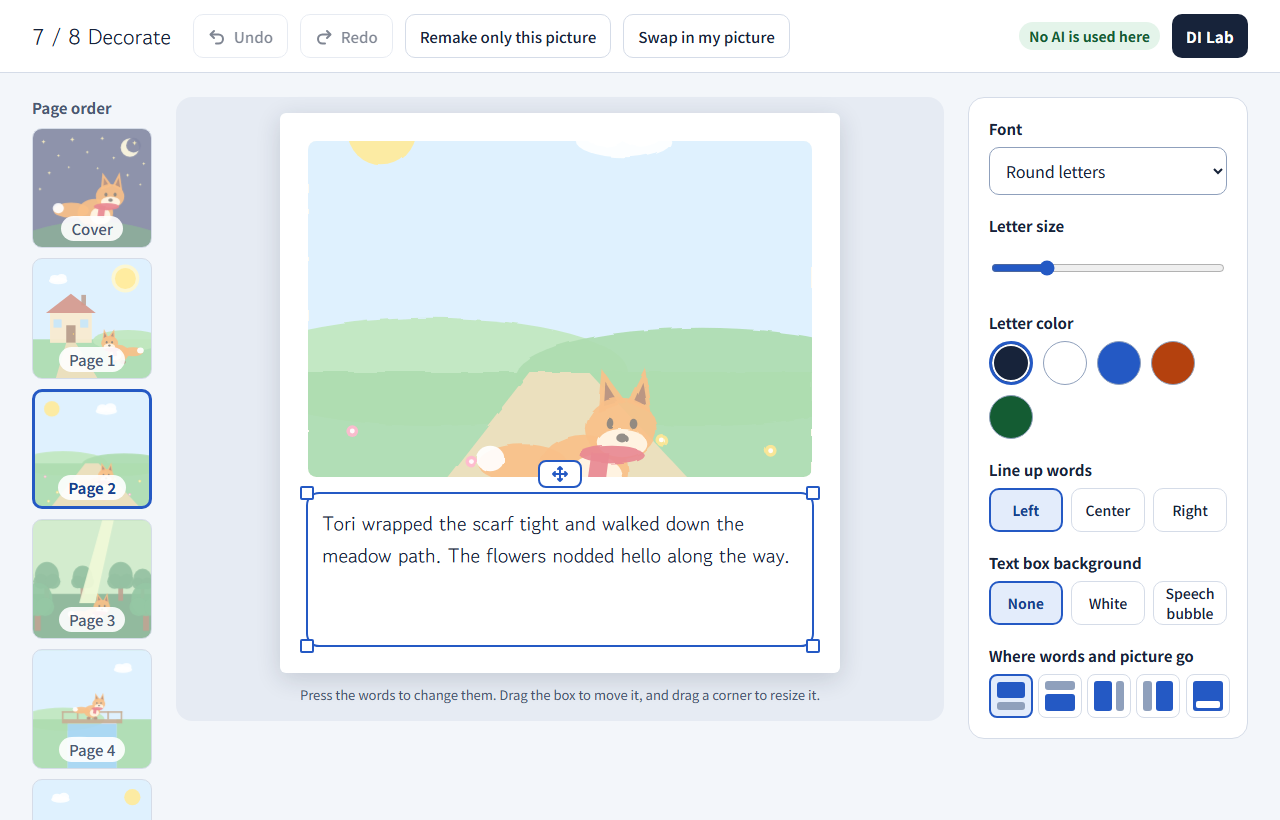
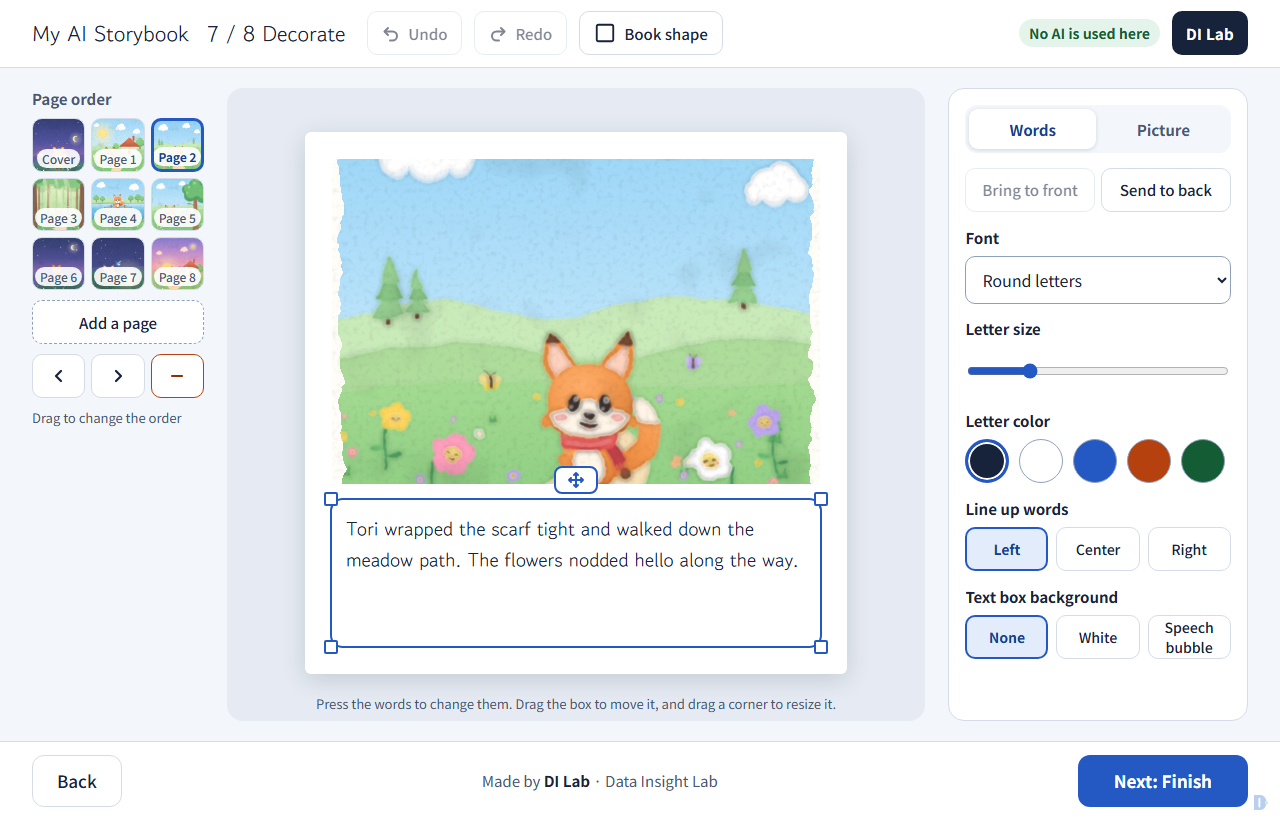
문서: 새 기능을 README와 교사용 안내에 넣고 화면 사진·소셜 카드·시연 GIF를 다시 만듦

diff --git a/docs/teacher-guide.en.md b/docs/teacher-guide.en.md
@@ -140,6 +140,8 @@ The calculation below is for Google Gemini. Claude writes text only; the text fo
 
 - Tell students not to write real names, addresses, or phone numbers. The story seed screen also says "Don't write real names, addresses, or phone numbers." The main character's name should be made up.
 - The author's name can be a nickname.
+- Tell students not to write real names or personal information in the [My own style] box either. What they write there goes into the picture request as it is when AI is connected.
+- [Ask AI for help] works only when AI is connected. Without a connection the button cannot be pressed and "Connect AI to use this" is shown. Pressing it sends what is in that box and the book content (topic, main character, plot, the pages before and after) to the connected AI provider.
 - **When Gemini is used within the free limit, what is typed in is used by the provider to improve its services, and people may review it.** The terms say: "Google uses the content you submit to the Services and any generated responses to provide, improve, and develop Google products and services and machine learning technologies..." / "human reviewers may read, annotate, and process your API input and output." / "Do not submit sensitive, confidential, or personal information to the Unpaid Services."
 - When Gemini is used on the paid plan, content is not used to improve products. Logs are still kept for a while to detect abuse.
 - Anthropic's Commercial Terms of Service state: "Anthropic may not train models on Customer Content from Services." (checked 2026-11-16). Under OpenAI's Services Agreement, OpenAI does not use customer content to develop or improve its services unless the customer explicitly agrees (checked 2026-11-16). Read the provider's terms before use.
@@ -173,7 +175,7 @@ For the rights to the book and the fonts, see [Rights and terms of use](rights.e
 | "You've used all of today's turns." | This is the daily limit. Try again after the time on screen, or write the words yourself and add your own pictures. |
 | Writing works but pictures do not. | Claude does not make pictures. Add your own, or enter a Gemini or OpenAI key for pictures in [More settings]. Gemini pictures need a key with billing connected. The key check only sees that the key is accepted. |
 | "The key looks right, but the Claude organization that made it has browser use turned off in its settings." | The Claude organization's setting blocks calls straight from the browser. Ask the person who manages the organization to turn it on, or put in a different key. |
-| The character looks different on each page. | Describe the character in more detail, and press [Remake only this picture] in Decorate for pictures you do not like. |
+| The character looks different on each page. | Describe the character in more detail, and press [Remake only this picture] on the [Picture] tab in Decorate for pictures you do not like. |
 | Text boxes are hard to use on a phone. | Use a bigger screen, or click the words and fix them directly. |
 
 For getting a key, see [How to get a key](key-guide.en.md).

diff --git a/README.kr.md b/README.kr.md
@@ -19,9 +19,10 @@ https://storybook.di-lab.io/
 ## 주요 기능
 
 - **이야기 설정:** 읽을 사람, 주제, 주인공의 이름과 모습을 고르면 AI가 줄거리 세 가지를 제안합니다. 직접 쓸 수도 있습니다.
-- **쪽 나누기:** 줄거리를 4, 6, 8쪽으로 나누고, 쪽마다 글과 그림 설명을 바로 고칠 수 있습니다.
-- **그림 넣기:** 그림체 여섯 가지 중 하나로 AI가 그리거나, 직접 그린 그림이나 사진을 올립니다.
-- **꾸미기:** 글상자를 끌어 옮기고 크기, 글꼴, 색, 배치를 바꿉니다. 되돌리기를 지원합니다.
+- **쪽 나누기:** 줄거리를 2~20쪽으로 나눕니다(4, 6, 8쪽은 바로 고르고, 그 밖의 쪽 수는 [직접 정하기]로 정합니다). 쪽 목록에서 쪽을 골라 글과 그림 설명을 바로 고칠 수 있습니다.
+- **AI 글쓰기 도움:** 주인공 이름과 모습, 이야기 한 줄, 제목과 줄거리, 쪽마다의 글과 그림 설명 칸에서 [AI에게 도움받기]를 누르면 빈 칸에는 초안을, 이미 쓴 칸에는 쓴 내용을 살려 다듬은 글을 받습니다. [되돌리기]로 원래 글로 돌아갈 수 있으며, AI 연결이 필요합니다.
+- **그림 넣기:** 그림체 여섯 가지 중 하나로 AI가 그리거나, 직접 그린 그림이나 사진을 올립니다. 원하는 그림체를 글로 적는 [나만의 스타일]이 있고, 쪽마다 그림체를 따로 고를 수도 있습니다.
+- **꾸미기:** 글상자와 그림을 끌어 옮기고 크기를 바꾸며, 둘을 겹쳐 [앞으로 가져오기]와 [뒤로 보내기]로 앞뒤를 정합니다. 글꼴, 색, 배치를 바꾸고 책 모양(정사각형, 세로로 긴 책, 가로로 긴 책)을 고릅니다. 되돌리기를 지원합니다.
 - **내보내기:** 화면용 PDF, 인쇄용 PDF, 그림 묶음, 나중에 이어서 편집할 작업 파일로 받습니다.
 - **AI 없이 완성:** AI를 연결하지 않아도 글을 직접 쓰고 그림을 올려 책을 끝까지 만들 수 있습니다.
 
@@ -39,7 +40,7 @@ https://storybook.di-lab.io/
 
 화면 위쪽에 전체 8단계가 점으로 표시되며, 언제든 앞 단계로 돌아갈 수 있습니다. 작업 내용은 자동으로 저장됩니다.
 
-AI는 같은 주인공도 그림마다 조금씩 다르게 그릴 수 있습니다. 주인공의 모습을 자세히 쓰면 일관성이 높아지며, 마음에 들지 않는 그림은 꾸미기 단계에서 [이 그림만 다시 만들기]로 다시 만들 수 있습니다.
+AI는 같은 주인공도 그림마다 조금씩 다르게 그릴 수 있습니다. 주인공의 모습을 자세히 쓰면 일관성이 높아지며, 마음에 들지 않는 그림은 꾸미기 단계의 [그림] 탭에서 [이 그림만 다시 만들기]로 다시 만들 수 있습니다.
 
 ## AI 연결 (선택)
 

diff --git a/README.en.md b/README.en.md
@@ -19,9 +19,10 @@ Open the address in your browser to start. If this is your first visit, press [S
 ## Features
 
 - **Story setup:** Choose the reader, a topic, and the main character's name and look, and AI suggests three plots. You can also write your own.
-- **Page text:** Split the plot into 4, 6, or 8 pages, and edit the text and picture notes for each page in place.
-- **Images:** Let AI draw in one of six art styles, or upload your own drawings or photos.
-- **Layout:** Drag text boxes and change their size, font, color, and placement. Undo is supported.
+- **Page text:** Split the plot into 2 to 20 pages (4, 6, and 8 are one tap; set any other number with [Custom]). Pick a page from the page list to edit its text and picture note in place.
+- **AI writing help:** In the boxes for the main character's name and look, the one-line story, the title and plot, and each page's text and picture note, press [Ask AI for help]. An empty box gets a first draft; a box with writing gets a polished version that keeps the student's ideas. [Undo] brings back the original text. This needs an AI connection.
+- **Images:** Let AI draw in one of six art styles, or upload your own drawings or photos. [My own style] lets you describe an art style in words, and each page can have its own art style.
+- **Layout:** Drag text boxes and pictures and change their size, and overlap them with [Bring to front] and [Send to back]. Change the font, color, and placement, and choose the book shape (square, tall, or wide). Undo is supported.
 - **Export:** Save a PDF for screens, a PDF for printing, an image bundle, or a work file for further editing.
 - **Works without AI:** Without any AI connection, you can write the text, upload images, and finish the whole book.
 
@@ -39,7 +40,7 @@ Open the address in your browser to start. If this is your first visit, press [S
 
 All 8 steps are shown as dots at the top of the screen, and you can return to an earlier step at any time. Your work is saved automatically.
 
-AI may draw the same character slightly differently from image to image. A more detailed character description improves consistency, and you can regenerate any image with [Remake only this picture] in the Decorate step.
+AI may draw the same character slightly differently from image to image. A more detailed character description improves consistency, and you can regenerate any image with [Remake only this picture] on the [Picture] tab of the Decorate step.
 
 ## AI connection (optional)
 
